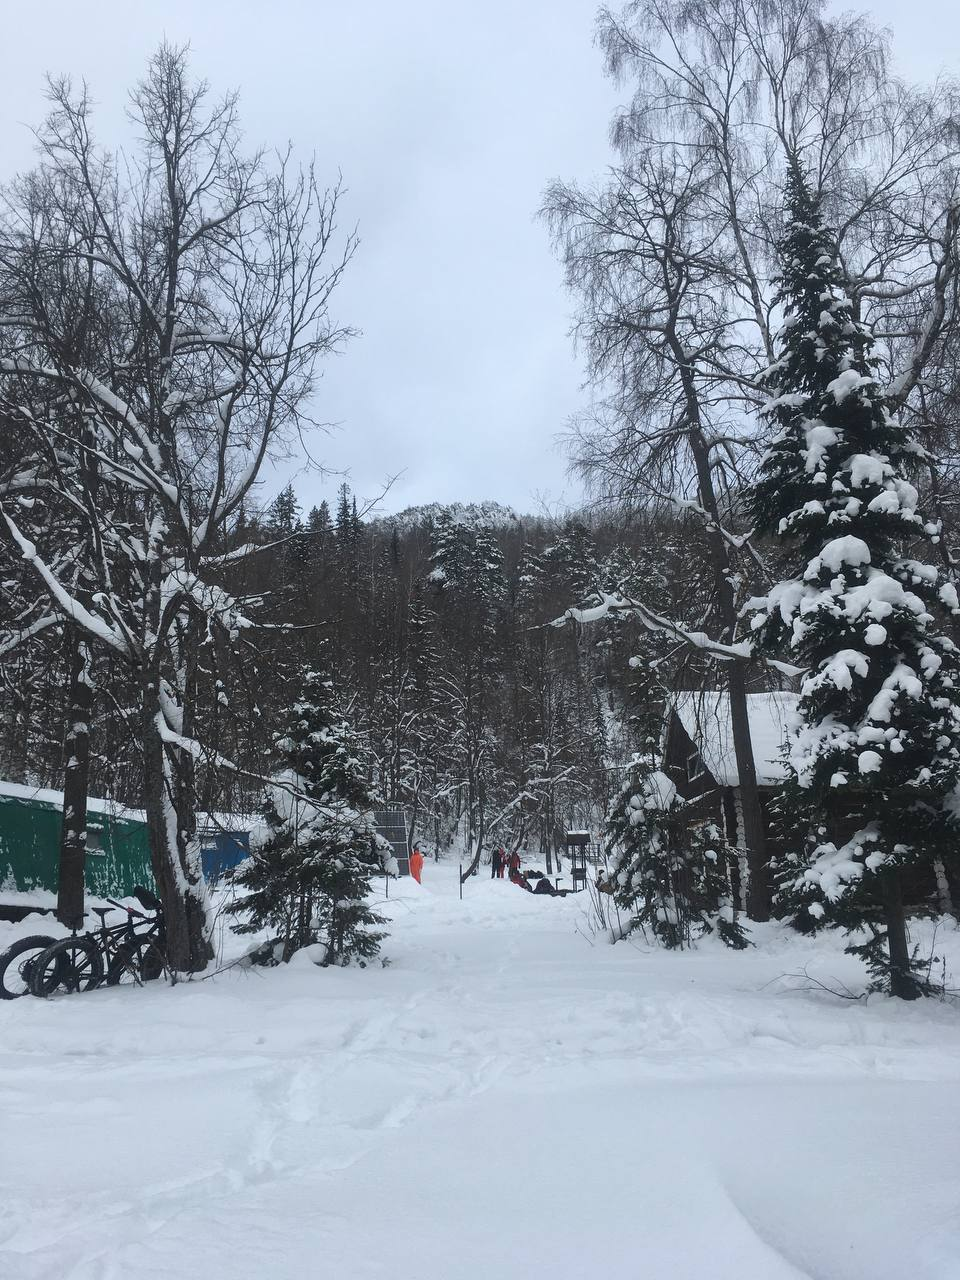
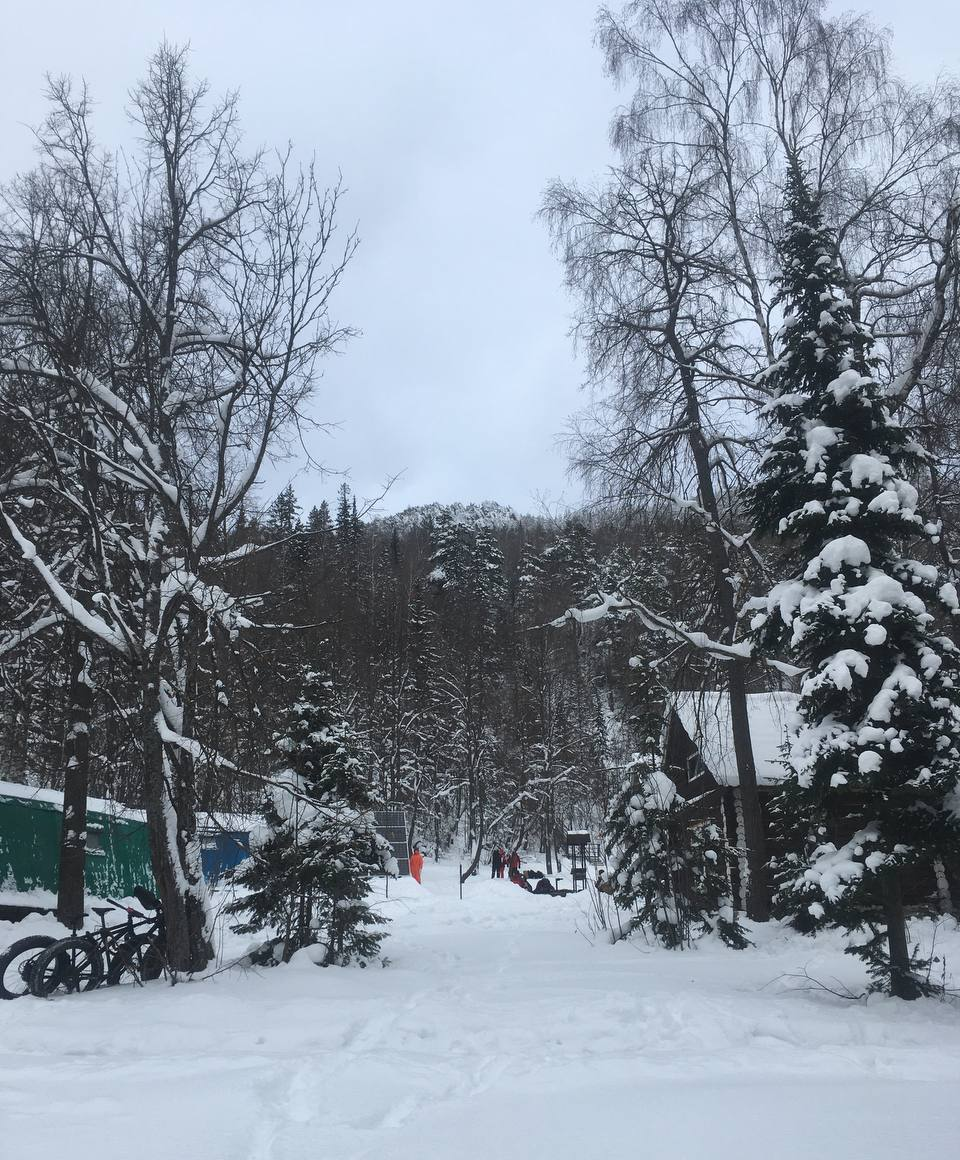
minor corr

diff --git a/nachprod_report.tex b/nachprod_report.tex
@@ -36,7 +36,7 @@
 		\item \textbf{Сухари:} часть сухарей, запланированных \textbf{на ужин}, участники сушили на себя сами.
 		\item \textbf{Приправы:} широкий набор добавок в чай и горячее (специи, сушёный лимон и пр.);
 		\item \textbf{Перевальный шоколад:} отдельный запас «на мораль и экстренную подпитку».
-		\item \textbf{Супы и чай (решение):} утром заготавливались \textbf{3 термоса чая и 3 термоса супа по 1 л};
+		\item \textbf{Супы и чай:} утром заготавливались \textbf{3 термоса чая и 3 термоса супа по 1~л};
 		в обед разливались, \textbf{по термосу на 3 человек}. Это ускорило обед и уменьшило простои на ветру.
 	\end{itemize}
 	
@@ -49,13 +49,12 @@
 		что усложняло честную раздачу.
 	\end{itemize}
 	
-	\section*{Замечания и рекомендации начпрода}
+	\subsection{Замечания и рекомендации начпрода}
 	\begin{itemize}
 		\item На будущие выходы: заменить хлопья в молочных кашах на крупу/манку/смесь, либо выдавать хлопья как опцию.
 		\item Сладкое планировать поштучно кратно численности группы или переводить в развес с дозировкой.
 		\item Практику с термосами признать удачной: уменьшает время стоянки и повышает потребление горячего.
 	\end{itemize}
 	
-\end{document}
 
 \clearpage

diff --git a/results.tex b/results.tex
@@ -1,5 +1,4 @@
-\section{Итоги похода, выводы и рекомендации по совершённому походу (от лица руководителя)}
-\subsection*{Выводы о выполнении целей и задач}
+\section{Итоги похода, выводы и рекомендации по совершённому походу}
 \begin{itemize}
 	\item \textbf{Отдых и эстетика.} Цели «отдохнуть после праздников» и «посмотреть красивое» выполнены полностью. Мы провели шесть дней в живописном зимнем Таганае, посетив почти все запланированные вершины, без переутомления и с сохранением хорошего настроения на протяжении всего маршрута.
 	
